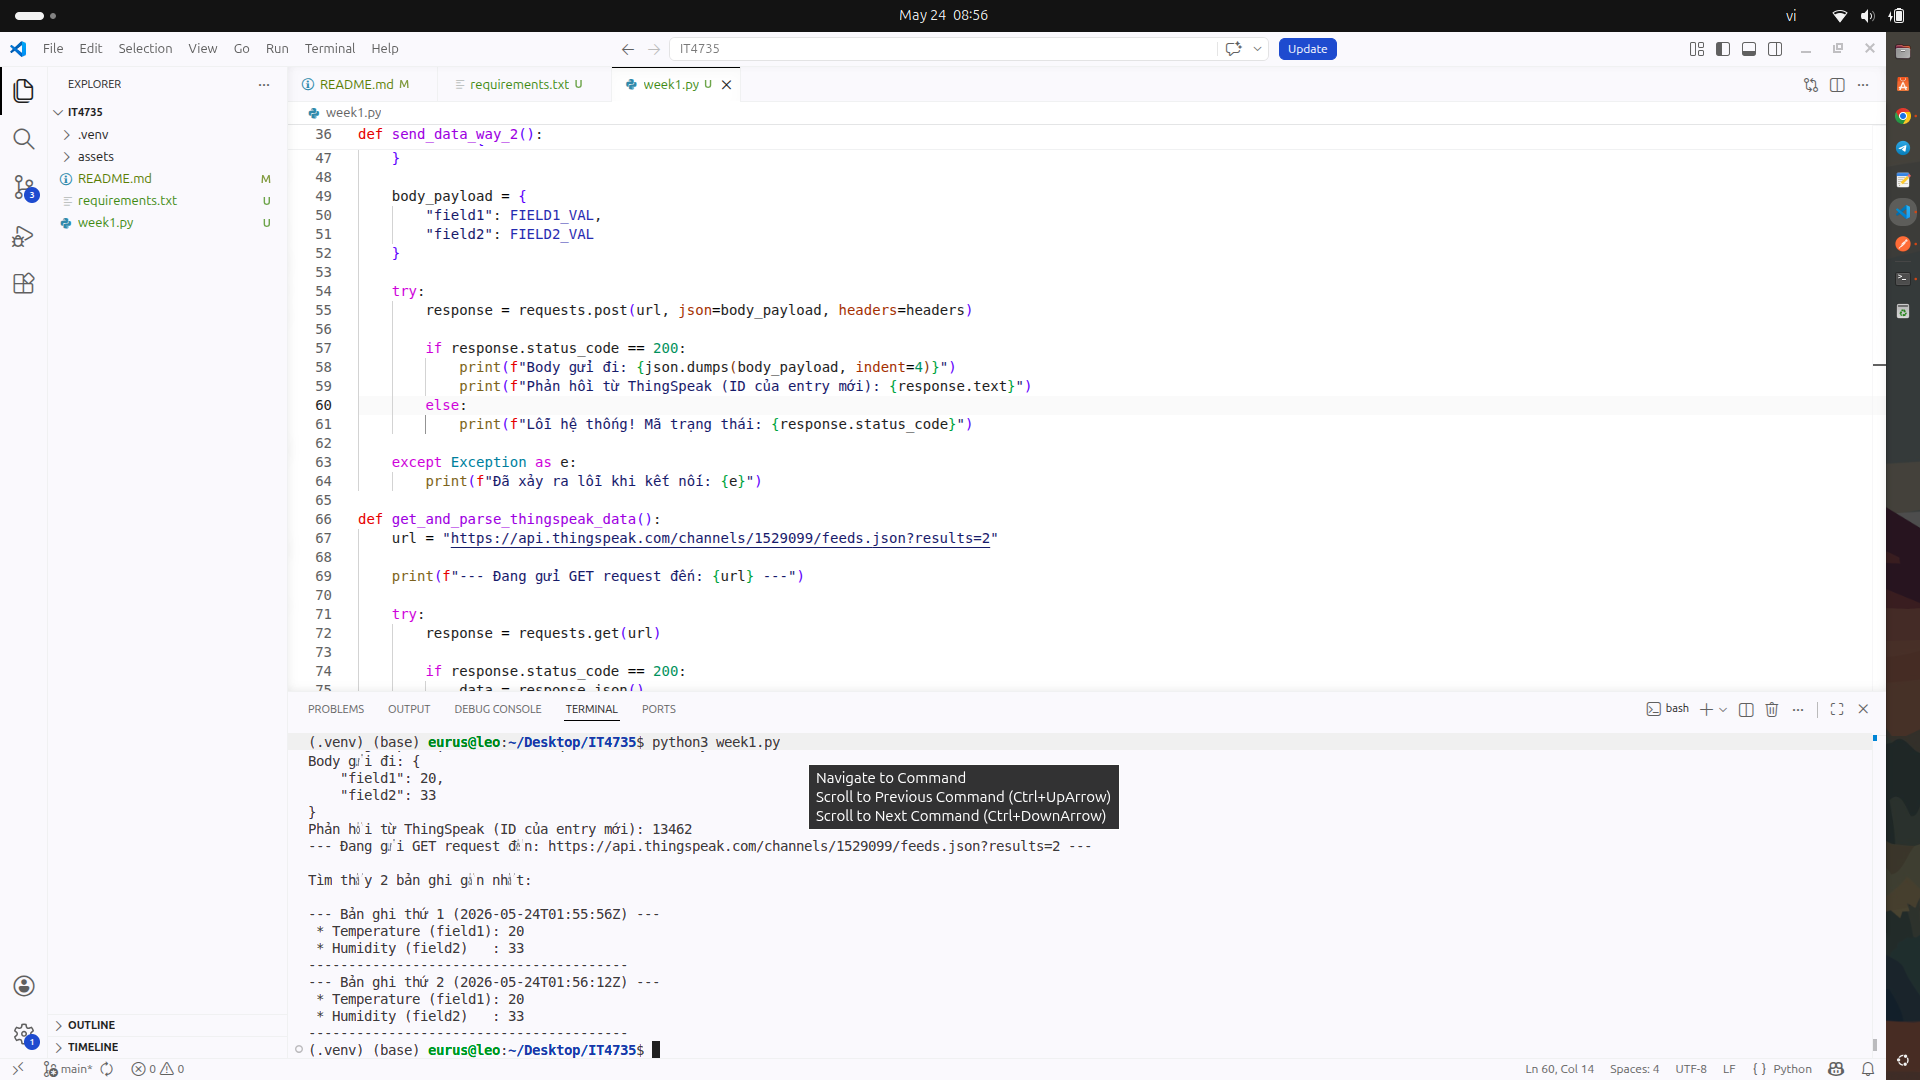
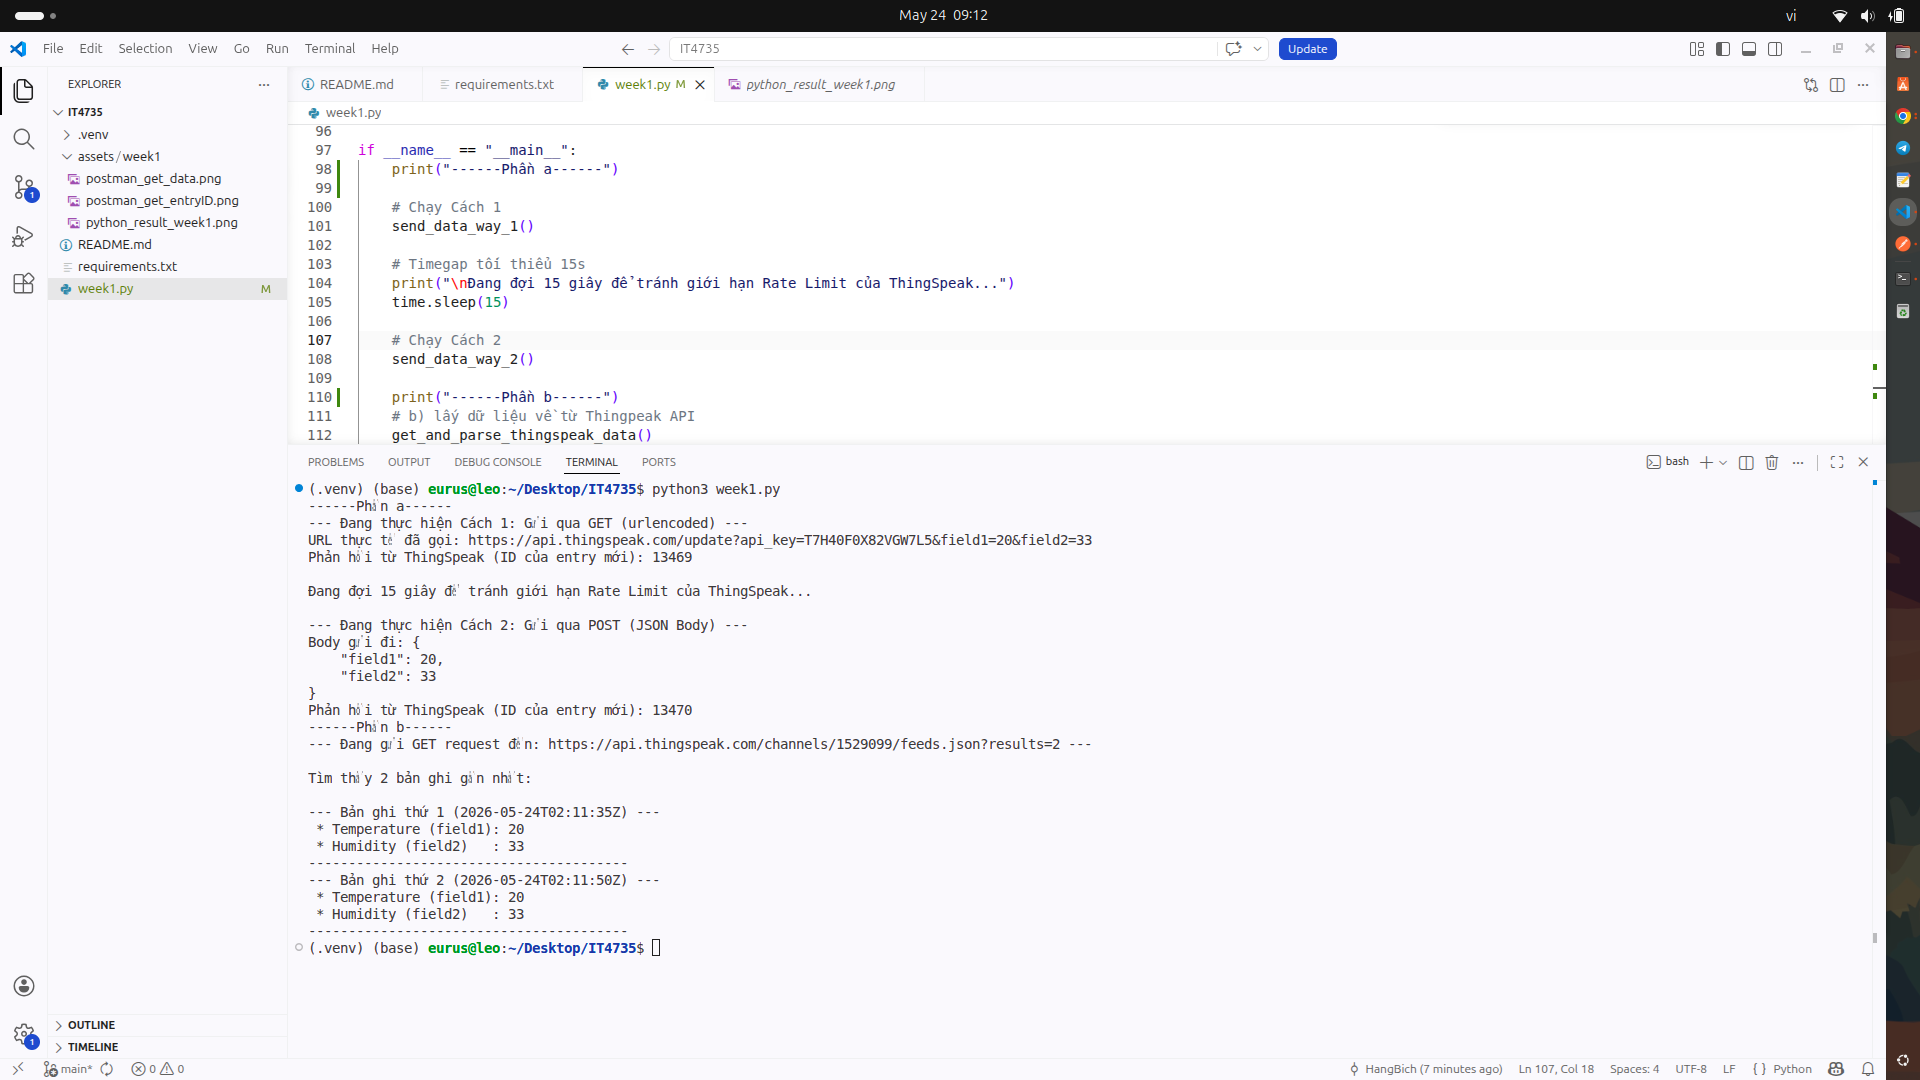
change result

diff --git a/week1.py b/week1.py
@@ -95,6 +95,8 @@ def get_and_parse_thingspeak_data():
         print(f"Đã xảy ra lỗi khi kết nối mạng: {e}")
 
 if __name__ == "__main__":
+    print("------Phần a------")
+
     # Chạy Cách 1
     send_data_way_1()
     
@@ -105,5 +107,6 @@ if __name__ == "__main__":
     # Chạy Cách 2
     send_data_way_2()
 
+    print("------Phần b------")
     # b) lấy dữ liệu về từ Thingpeak API
     get_and_parse_thingspeak_data()
